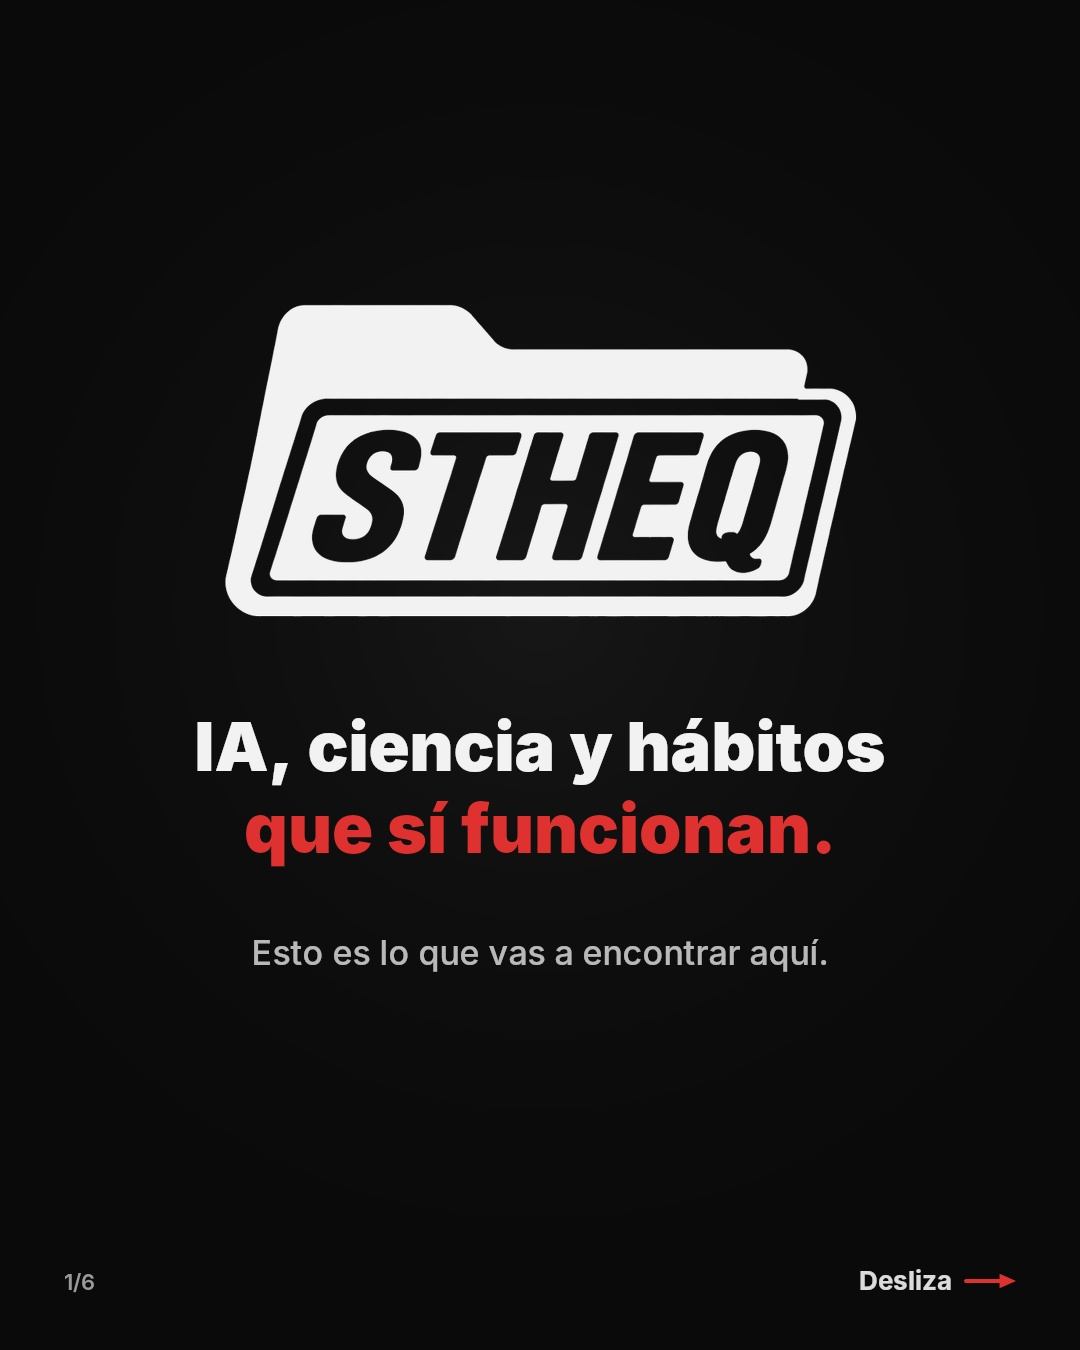
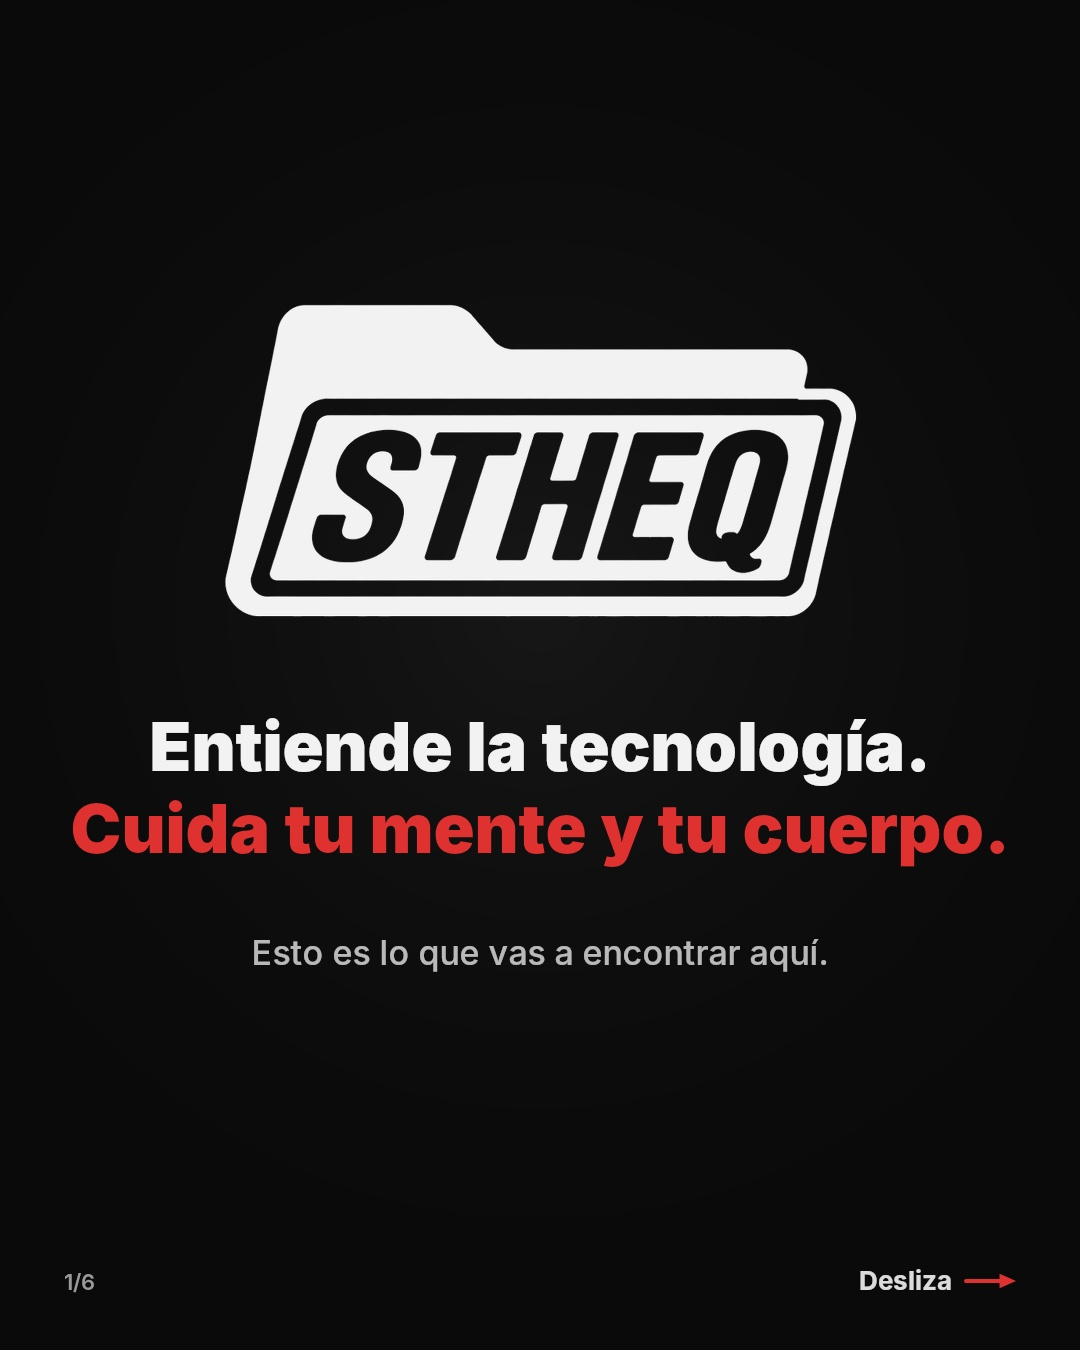
Presentación: reels de explicación y decálogos sobre cuidado personal, estoicismo, tecnología e IA
Claude-Session: https://claude.ai/code/session_0175Xv8zxBGXNBbiTN8Qz9TE

Changed region(s): [[0.0611, 0.5289, 0.9472, 0.6533]]

diff --git a/carruseles/2026-11-17_presentacion/presentacion.py b/carruseles/2026-11-17_presentacion/presentacion.py
@@ -67,7 +67,7 @@ def s1():
     logo = Image.open(K.LOGO); lw = 640; lh = round(logo.height * lw / logo.width)
     p.img(K.skimg(logo.resize((lw * 2, lh * 2), Image.LANCZOS)), (W - lw) / 2, 300, (W + lw) / 2, 300 + lh, nearest=False)
     y = 300 + lh + 150
-    for ln, col in [("IA, ciencia y hábitos", FG), ("que sí funcionan.", RED)]:
+    for ln, col in [("Entiende la tecnología.", FG), ("Cuida tu mente y tu cuerpo.", RED)]:
         p.text(ln, W / 2, y, 68, col, 1, face=C.FONT_BLACK); y += 82
     y += 30
     for ln in K.wrap("Esto es lo que vas a encontrar aquí.", 34, C.FONT_MED, 820):
@@ -80,9 +80,10 @@ def s1():
 
 def s2():
     arr, p = base(); K.cabecera(p, FECHA)
-    telefono(p, ROOT / "episodes/dec01_glow_up/output/portada.png", W / 2, 470, 560, rot=-4)
-    bloque(p, 830, "REELS · TODOS LOS DÍAS", "Decálogos con ciencia",
-           "10 reglas en un reel corto para cuidarte, estudiar, verte mejor, entrenar o dormir. Cada regla con su respaldo.")
+    telefono(p, ROOT / "episodes/lx01_protector_solar/output/portada.png", W / 2 - 170, 480, 540, rot=-5)
+    telefono(p, ROOT / "episodes/dec01_glow_up/output/portada.png", W / 2 + 170, 470, 540, rot=5)
+    bloque(p, 830, "REELS · TODOS LOS DÍAS", "Explicaciones y decálogos",
+           "Cuidado personal, estoicismo, tecnología e IA: historias que explican cómo funcionan las cosas y listas prácticas para aplicarlas. Siempre con fuente.")
     K.pie(p, "", 2, N)
     return arr
 
@@ -117,11 +118,11 @@ def s4():
                 p.rect(xx + 26 + k * 8, y0 + 262 + k * 8, xx + cw - 34 + k * 8, y0 + 380 + k * 8, RED if k == 2 else GRAY, 1 if k == 2 else 0.5, radius=10)
     ly = y0 + 470
     p.rect(X0 + 150, ly - 18, X0 + 190, ly + 8, FG, 1, radius=6)
-    p.text("reel decálogo", X0 + 205, ly + 4, 28, FG, 0.85, face=C.FONT_SEMI, align="left")
+    p.text("reel", X0 + 205, ly + 4, 28, FG, 0.85, face=C.FONT_SEMI, align="left")
     p.rect(X0 + 520, ly - 22, X0 + 556, ly + 12, RED, 1, radius=6)
     p.text("noticias de IA", X0 + 572, ly + 4, 28, FG, 0.85, face=C.FONT_SEMI, align="left")
     bloque(p, 830, "TU SEMANA EN STHEQ", "10 publicaciones por semana",
-           "Un reel cada día y tres carruseles de noticias. Siempre a la hora en que más gente está conectada.")
+           "Un reel cada día (explicación o decálogo) y tres carruseles de noticias. Siempre a la hora en que más gente está conectada.")
     K.pie(p, "", 4, N)
     return arr
 
@@ -131,7 +132,7 @@ def s5():
     y = 290
     p.text("NUESTRAS REGLAS", X0, y, 26, RED, 1, face=C.FONT_BOLD, align="left", tracking=3)
     y += 30
-    reglas = [("Todo con fuente.", "Estudios, organismos oficiales y medios verificados. Siempre citados."),
+    reglas = [("Todo con fuente.", "Estudios, textos originales, organismos oficiales y medios verificados."),
               ("Nada de rumores.", "Si una noticia no se confirma en la fuente original, no se publica."),
               ("Sin promesas milagrosas.", "Hábitos que funcionan, no atajos ni productos mágicos."),
               ("Directo al punto.", "Lo que pasó, por qué importa y qué puedes hacer tú.")]
@@ -152,10 +153,10 @@ def s6():
     logo = Image.open(K.LOGO); lw = 520; lh = round(logo.height * lw / logo.width)
     p.img(K.skimg(logo.resize((lw * 2, lh * 2), Image.LANCZOS)), (W - lw) / 2, 240, (W + lw) / 2, 240 + lh, nearest=False)
     y = 240 + lh + 160
-    for ln in K.wrap("¿Qué decálogo quieres ver primero?", 64, C.FONT_BLACK, X1 - X0 - 40):
+    for ln in K.wrap("¿Sobre qué quieres el próximo reel?", 64, C.FONT_BLACK, X1 - X0 - 40):
         p.text(ln, W / 2, y, 64, FG, 1, face=C.FONT_BLACK); y += 76
     y += 20
-    ops = ["estudiar", "dormir", "entrenar", "piel"]
+    ops = ["estoicismo", "piel", "IA", "dormir"]
     f_w = [K.font(32, C.FONT_BOLD).measureText(o) + 48 for o in ops]
     tot = sum(f_w) + 16 * (len(ops) - 1); x = (W - tot) / 2
     for o, w in zip(ops, f_w):
